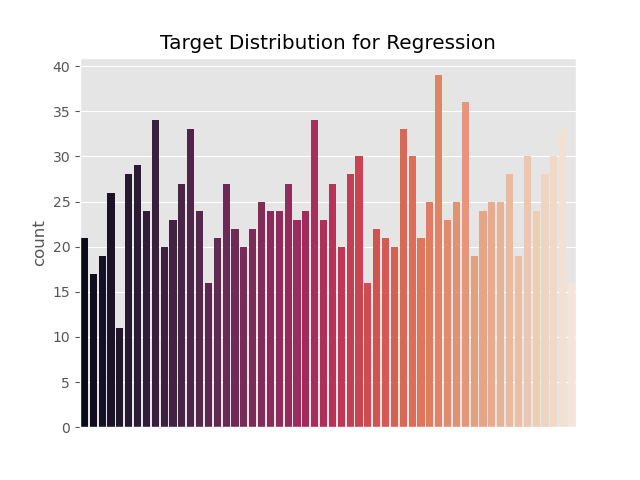
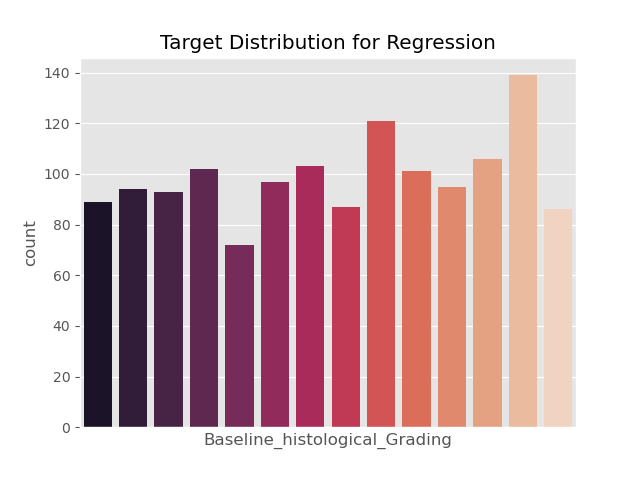
fixed regression plot

Changed region(s): [[0.0312, 0.125, 0.9062, 0.9375], [0.0625, 0.3125, 0.125, 0.375], [0.0625, 0.2188, 0.125, 0.2812]]

diff --git a/src/viz/eda.py b/src/viz/eda.py
@@ -99,13 +99,6 @@ for i in range(len(y_clas)):
     t_names.append(class_names[y_clas[i][0]-1])
 t_names = np.array(t_names)
 
-y_reg = dataset.loc[:,[targets_col_reg]].values
-y_reg = y_reg/np.max(y_reg)
-y_reg = np.add(y_reg, y_clas)
-y_reg = y_reg-np.min(y_reg)
-y_reg = y_reg/np.max(y_reg)
-y_reg = [element[0] for element in y_reg]
-
 plt.clf()
 sns.countplot(t_names, palette="rocket", order=['Portal Fibrosis','Few Septa','Many Septa','Cirrhosis'])
 plt.title("Target Distribution for Classification")
@@ -113,7 +106,7 @@ plt.savefig('src/viz/plots/target_classes.png')
 
 
 plt.clf()
-sns.countplot(y_reg, palette="rocket")
+sns.countplot(dataset['Baseline_histological_Grading'], palette="rocket")
 plt.title("Target Distribution for Regression")
 plt.xticks([])
 plt.savefig('src/viz/plots/target_regr.png')
